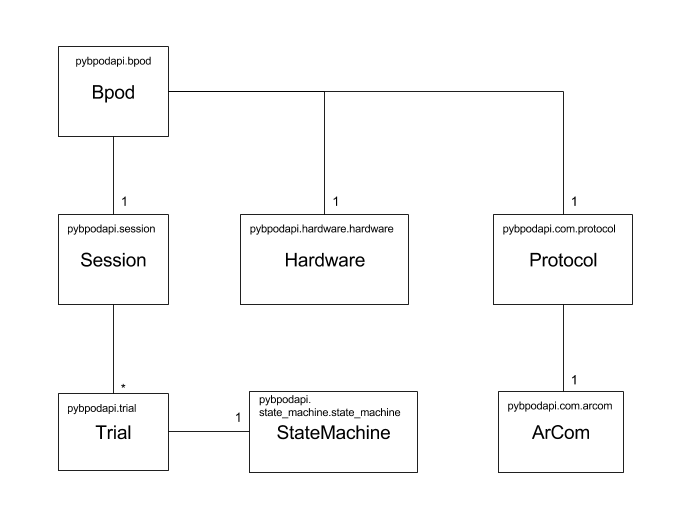
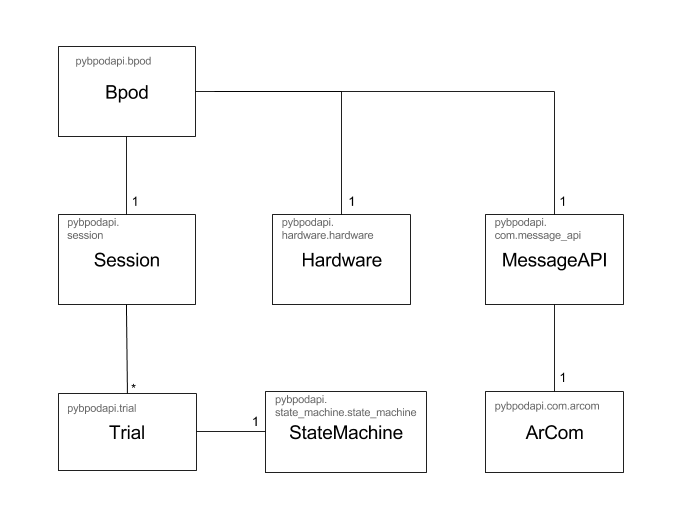
Minor fixes Rename 'Protocol' to 'MessageAPI' in order to avoid confusion with bpod protocols Try to expand tree on rtd theme

diff --git a/pybpodapi/model/bpod.py b/pybpodapi/model/bpod.py
@@ -4,7 +4,7 @@
 import logging
 import math
 
-from pybpodapi.com.protocol import Protocol
+from pybpodapi.com.message_api import MessageAPI
 from pybpodapi.com.hardware_info_container import HardwareInfoContainer
 from pybpodapi.com.serial_message_container import SerialMessageContainer
 from pybpodapi.hardware.hardware import Hardware
@@ -45,11 +45,11 @@ class Bpod(object):
 
 	@property
 	def bpod_protocol(self):
-		return self._bpod_protocol  # type: Protocol
+		return self._bpod_protocol  # type: MessageAPI
 
 	@bpod_protocol.setter
 	def bpod_protocol(self, value):
-		self._bpod_protocol = value  # type: Protocol
+		self._bpod_protocol = value  # type: MessageAPI
 
 	#########################################
 	############ PUBLIC METHODS #############
@@ -72,7 +72,7 @@ class Bpod(object):
 
 		self.hardware = Hardware()  # type: Hardware
 		self.session = Session()  # type: Session
-		self.bpod_protocol = Protocol()  # type: Protocol
+		self.bpod_protocol = MessageAPI()  # type: MessageAPI
 
 		self.bpod_protocol.connect(serial_port, baudrate)
 

diff --git a/pybpodapi/model/session.py b/pybpodapi/model/session.py
@@ -30,8 +30,6 @@ class Session(object):
 
 		self.trials.append(new_trial)
 
-		logger.info("New trial added: %s", str(new_trial))
-
 	def add_trial_events(self):
 
 		current_trial = self.current_trial()  # type: Trial
@@ -82,6 +80,8 @@ class Session(object):
 			for i in thisEventIndexes:
 				thisEventTimestamps.append(sma_data.event_timestamps[i])
 			current_trial.events_timestamps[thisEventName] = thisEventTimestamps
+
+		logger.info("Trial info: %s", str(current_trial))
 
 	def current_trial(self):
 		return self.trials[-1]

diff --git a/docs/source/conf.py b/docs/source/conf.py
@@ -110,6 +110,12 @@ html_theme = 'sphinx_rtd_theme'
 # documentation.
 #
 # html_theme_options = {}
+# toc tree depth on sidebar
+html_theme_options = {
+    'collapse_navigation': False,
+    'display_version': True,
+    'navigation_depth': 3
+}
 
 # Add any paths that contain custom static files (such as style sheets) here,
 # relative to this directory. They are copied after the builtin static files,

diff --git a/pybpodapi/com/message_api.py b/pybpodapi/com/message_api.py
@@ -12,7 +12,7 @@ from pybpodapi.com.serial_message_container import SerialMessageContainer
 logger = logging.getLogger(__name__)
 
 
-class Protocol(object):
+class MessageAPI(object):
 	"""
 	Define command actions that can be requested to Bpod device.
 

diff --git a/docs/source/api_reference/pybpodapi/com/message_api.rst b/docs/source/api_reference/pybpodapi/com/message_api.rst
@@ -1,0 +1,23 @@
+==================================================
+:mod:`message_api` --- Requesting Commands to Bpod
+==================================================
+
+.. module:: com.message_api
+   :synopsis: communication with Bpod device
+
+.. contents:: Contents
+    :local:
+
+--------
+Overview
+--------
+
+This module defines messages that are available to interact with the Bpod device.
+
+--------------
+Implementation
+--------------
+
+.. automodule:: pybpodapi.com.message_api
+    :members:
+    :private-members:

diff --git a/docs/source/api_reference/pybpodapi/com/serial_message_container.rst b/docs/source/api_reference/pybpodapi/com/serial_message_container.rst
@@ -12,7 +12,7 @@ Overview
 This container is used to store serial message information.
 
 .. seealso::
-    :meth:`pybpodapi.com.protocol.Protocol.load_serial_message`
+    :meth:`pybpodapi.com.message_api.MessageAPI.load_serial_message`
 
 --------------
 Implementation

diff --git a/docs/source/api_reference/pybpodapi/com/index.rst b/docs/source/api_reference/pybpodapi/com/index.rst
@@ -8,7 +8,7 @@
 .. toctree::
    :titlesonly:
 
-   protocol
+   message_api
    message_headers
    arcom
    hw_info_container
